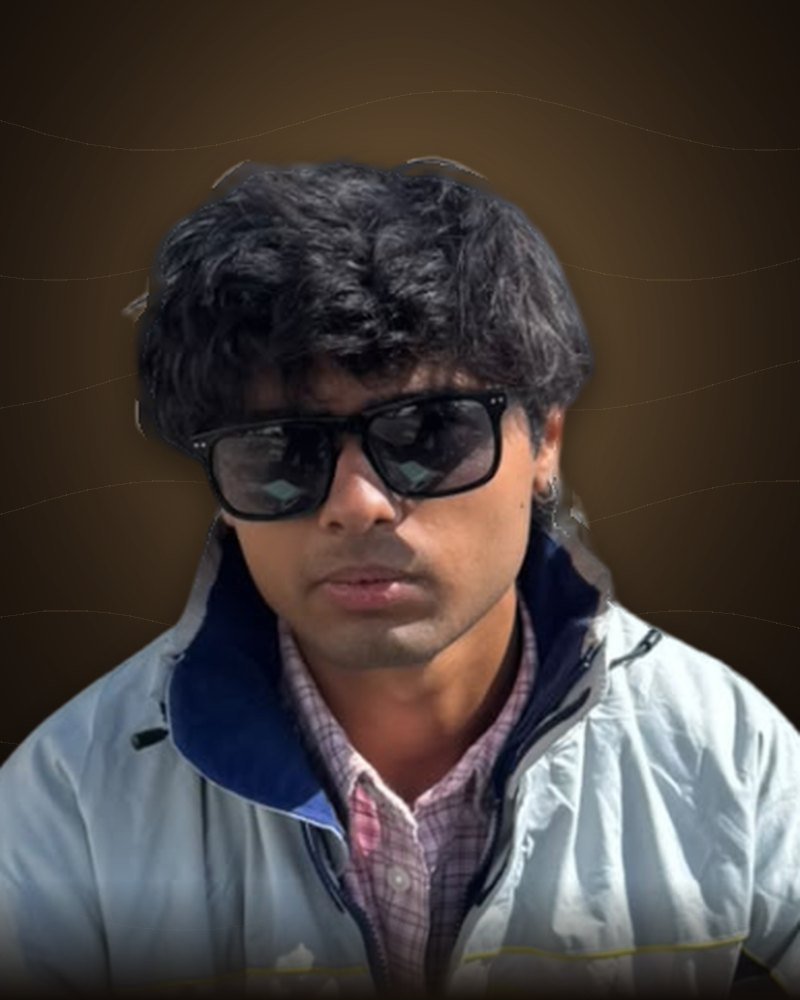
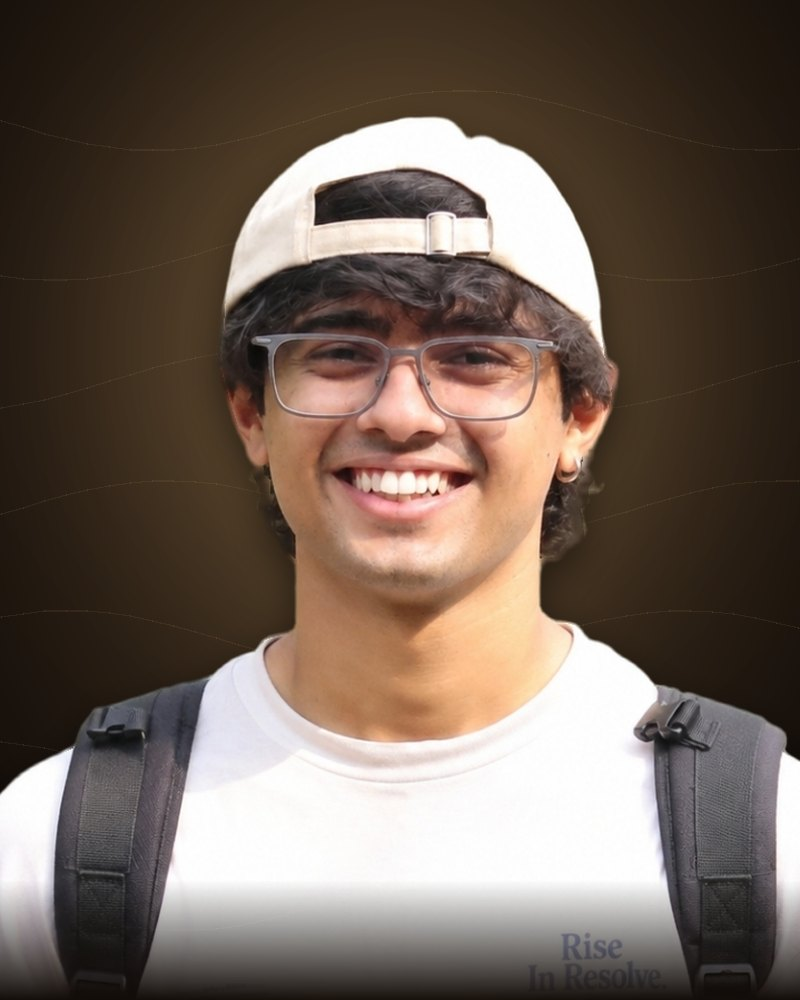
Team: new photos (Dr. Soni, Raj, Yunus, Malav), Advisory above Coordinators; WhatsApp group link after registration; Shutter Safari open all day
Claude-Session: https://claude.ai/code/session_01H44TnuUaCssMfT23pgecKw

diff --git a/src/components/admin/resource-config.ts b/src/components/admin/resource-config.ts
@@ -42,7 +42,7 @@ export const CONFIG: { [C in CollectionName]: ResourceConfig<C> } = {
     publicHref: (e) => `/events/${e.slug}`,
     filter: { field: "category", label: "Category", options: EVENT_CATEGORIES.map((c) => ({ value: c, label: CATEGORY_LABELS[c] })) },
     blank: (sortOrder) => ({
-      id: uuid(), slug: "", name: "", category: "competition", tier: "main", tagline: "", prize: "", shortDescription: "", description: "", posterUrl: "",
+      id: uuid(), slug: "", name: "", category: "competition", tier: "main", tagline: "", prize: "", whatsappGroup: "", shortDescription: "", description: "", posterUrl: "",
       eventDate: "", startTime: "", endTime: "", venue: "", participation: "individual", teamMin: 1, teamMax: 1, fee: null,
       deadline: inAWeek(), rules: [], eligibility: "", coordinatorName: "", coordinatorPhone: "", coordinatorEmail: "",
       registrationOpen: true, visible: false, capacity: null, extraQuestions: [], sortOrder, isSample: false,
@@ -54,6 +54,7 @@ export const CONFIG: { [C in CollectionName]: ResourceConfig<C> } = {
       { name: "tier", label: "Event type", type: "select", options: [{ value: "main", label: "Main event (online registration)" }, { value: "mini", label: "Mini event (on the spot, no registration)" }] },
       { name: "tagline", label: "Tagline (optional)", type: "text" },
       { name: "prize", label: "Prize badge (optional)", type: "text", placeholder: "Winners get goodies", help: "Shown as a 🏆 badge on the event card and page." },
+      { name: "whatsappGroup", label: "WhatsApp group invite link (optional)", type: "text", placeholder: "https://chat.whatsapp.com/…", span: 2, help: "Shown as a “Join the WhatsApp group” button right after someone registers. In WhatsApp: group info → Invite via link → Copy link." },
       { name: "shortDescription", label: "Short description (card)", type: "textarea", span: 2 },
       { name: "description", label: "Full description", type: "textarea", span: 2 },
       { name: "posterUrl", label: "Poster / image", type: "media", accept: "image/*", folder: "posters", span: 2 },

diff --git a/src/content/events.ts b/src/content/events.ts
@@ -31,6 +31,7 @@ const ev = (e: Input): FestEvent => {
     id: `e1000000-0000-4000-8000-${String(n).padStart(12, "0")}`,
     tagline: "",
     prize: "",
+    whatsappGroup: "",
     participation: "individual",
     teamMin: 1,
     teamMax: 1,
@@ -194,6 +195,12 @@ export const eventsSeed: FestEvent[] = [
       "Capture the beauty, mystery and unexpected details of the natural world — and upload your photograph when you register.",
     description:
       "Every picture has a story — what will yours reveal? Capture the beauty, mystery, and unexpected details of the natural world through your lens. From a bird in motion to the tiny life hidden beneath a leaf, turn an ordinary moment into an extraordinary frame.\n\nPlay with light, perspective, and composition to create a photograph that makes people pause and look closer. Whether you focus on wildlife, plants, or nature’s fascinating patterns, let your creativity shine and show us the wild through your eyes!",
+    startTime: "09:00",
+    endTime: "16:00",
+    rules: [
+      "Open all day — submissions accepted from 9:00 AM until the closing ceremony.",
+      "No limit on participants: every registration is accepted.",
+    ],
     extraQuestions: [
       { id: "photo", label: "Upload your photograph (JPG, PNG or WebP · up to 10 MB)", type: "file", required: true },
       { id: "caption", label: "Title or caption for your photo", type: "text", required: false },

diff --git a/src/components/events/event-card.tsx b/src/components/events/event-card.tsx
@@ -108,7 +108,7 @@ export function EventCard({ event, onRegister, index = 0, number }: { event: Pub
             <div className="flex items-center gap-2"><IndianRupee size={14} className="shrink-0 text-gold" /><dt className="sr-only">Fee</dt><dd>Fee: {formatFee(event.fee)}</dd></div>
           )}
           <div className="flex items-center gap-2"><CalendarDays size={14} className="shrink-0 text-gold" /><dt className="sr-only">Date</dt><dd>{formatDate(event.eventDate, { day: "numeric", month: "short" })}</dd></div>
-          <div className="flex items-center gap-2"><Clock size={14} className="shrink-0 text-gold" /><dt className="sr-only">Time</dt><dd>{formatTime(event.startTime) || "Time TBA"}</dd></div>
+          <div className="flex items-center gap-2"><Clock size={14} className="shrink-0 text-gold" /><dt className="sr-only">Time</dt><dd>{event.startTime ? `${formatTime(event.startTime)}${event.endTime ? ` – ${formatTime(event.endTime)}` : ""}` : "Time TBA"}</dd></div>
           <div className="col-span-2 flex items-center gap-2"><MapPin size={14} className="shrink-0 text-gold" /><dt className="sr-only">Venue</dt><dd className="truncate">{event.venue}</dd></div>
         </dl>
         {!mini && (

diff --git a/src/components/events/registration-dialog.tsx b/src/components/events/registration-dialog.tsx
@@ -339,6 +339,15 @@ function Success({ result, event, onClose, onAgain }: { result: Extract<Register
         {result.emailSent ? `A confirmation email is on its way to ${result.email}.` : "Email confirmations aren't switched on yet — please screenshot or note down this ID."}
       </p>
 
+      {event.whatsappGroup && (
+        <div className="mx-auto mt-6 max-w-sm rounded-2xl border border-[#25D366]/40 bg-[#25D366]/10 p-4">
+          <p className="text-sm text-ivory/85">Join the participants’ WhatsApp group for updates, timings and results.</p>
+          <a href={event.whatsappGroup} target="_blank" rel="noopener noreferrer" className="btn mt-3 w-full bg-[#25D366] text-[#0b2e17] hover:bg-[#2fe072]">
+            <WhatsAppIcon className="h-4 w-4" /> Join the WhatsApp group
+          </a>
+        </div>
+      )}
+
       <div className="mt-8 flex flex-wrap justify-center gap-3">
         <Link href="/schedule" onClick={onClose} className="btn btn-gold"><CalendarDays size={16} /> View schedule</Link>
         <button type="button" onClick={onClose} className="btn btn-primary">Register for another event</button>

diff --git a/src/lib/types.ts b/src/lib/types.ts
@@ -28,6 +28,7 @@ export type FestEvent = {
   tier: "main" | "mini"; // mini events are on-the-spot: no online registration
   tagline: string;
   prize: string; // e.g. "Winners get goodies" — shown as a badge
+  whatsappGroup: string; // invite link shown after registering (https://chat.whatsapp.com/…)
   shortDescription: string;
   description: string;
   posterUrl: string;
@@ -58,7 +59,7 @@ export type TeamGroup = (typeof TEAM_GROUPS)[number];
 
 export const TEAM_SECTIONS: Record<TeamGroup, string[]> = {
   faculty: ["Teacher in Charge", "Faculty Mentors"],
-  leadership: ["Coordinators", "Advisory"],
+  leadership: ["Advisory", "Coordinators"],
   organizing: ["Events", "Creatives", "Social Media and Photography", "Logistics", "Productions", "Marketing", "Public Relations", "Hospitality", "Volunteers"],
 };
 

diff --git a/src/lib/schemas.ts b/src/lib/schemas.ts
@@ -94,6 +94,7 @@ export const contentSchemas = {
       tier: z.enum(["main", "mini"]),
       tagline: text(160),
       prize: text(120),
+      whatsappGroup: z.union([z.literal(""), z.string().trim().max(300).regex(/^https:\/\/(chat\.whatsapp\.com|wa\.me|(www\.)?whatsapp\.com)\//, "Paste a WhatsApp invite link (https://chat.whatsapp.com/…)")]).default(""),
       shortDescription: text(240),
       description: text(4000),
       posterUrl: url,

diff --git a/src/content/team.ts b/src/content/team.ts
@@ -39,7 +39,7 @@ export const DEPARTMENT_MOTTOS: Record<string, string> = {
 };
 
 /** Portraits in public/team/<name-slug>.jpg (background removed, branded backdrop). */
-const NO_PHOTO = new Set(["Dr. Shouriehebal Soni"]);
+const NO_PHOTO = new Set<string>([]);
 const photoFor = (name: string) =>
   NO_PHOTO.has(name) ? "" : `/team/${name.toLowerCase().replace(/[^a-z\s-]/g, "").trim().replace(/\s+/g, "-")}.jpg`;
 

diff --git a/docs/ORGANISER-GUIDE.md b/docs/ORGANISER-GUIDE.md
@@ -67,3 +67,10 @@ Messages from the Contact page arrive here. Reply by email, then mark them **In 
 
 ## Content that lives in code
 The Species Spotlight and the Forensics evidence board are in `src/content/species.ts`. A developer can edit them, and should confirm the conservation statuses on iucnredlist.org.
+
+## WhatsApp groups for participants
+
+Admin → Events → open an event → **WhatsApp group invite link** → paste the group's invite link
+(WhatsApp: group info → Invite via link → Copy link) → Save. Right after someone registers for that
+event, they see a green **Join the WhatsApp group** button. Leave it empty to hide the button.
+(One-time: run `supabase/update-whatsapp.sql` in the Supabase SQL Editor first.)
